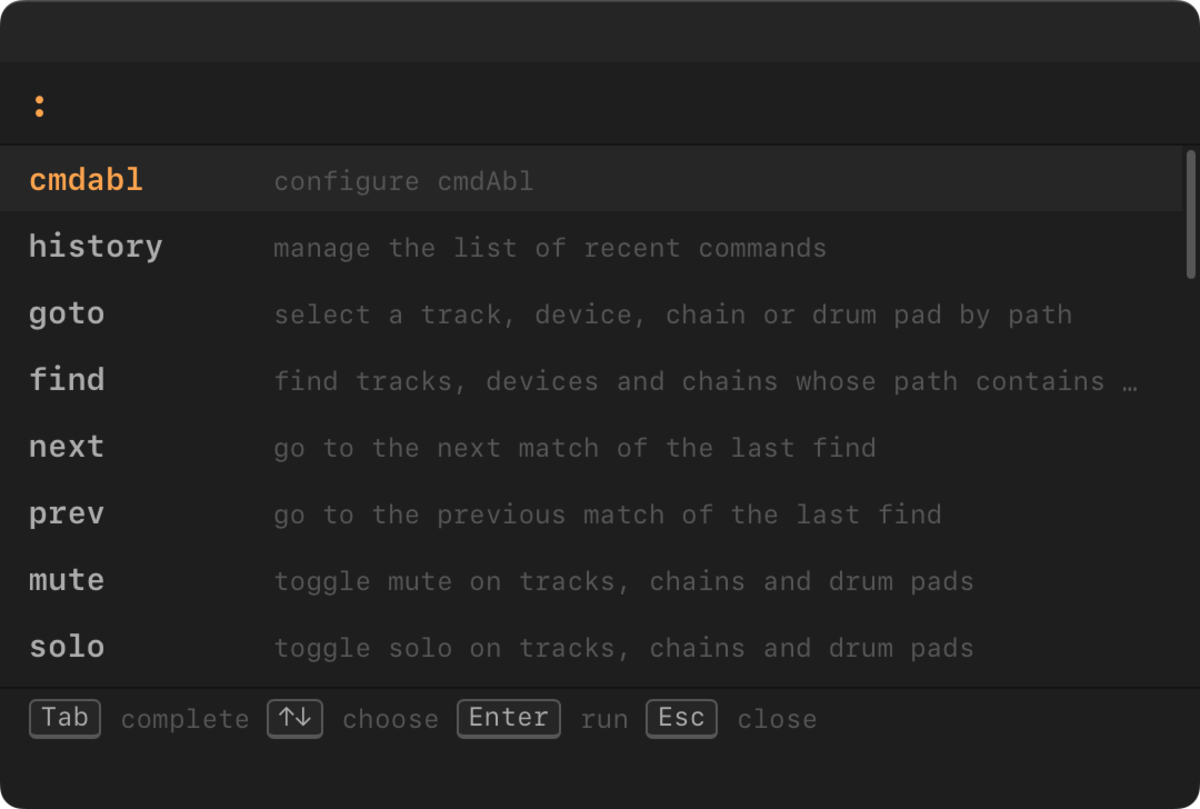
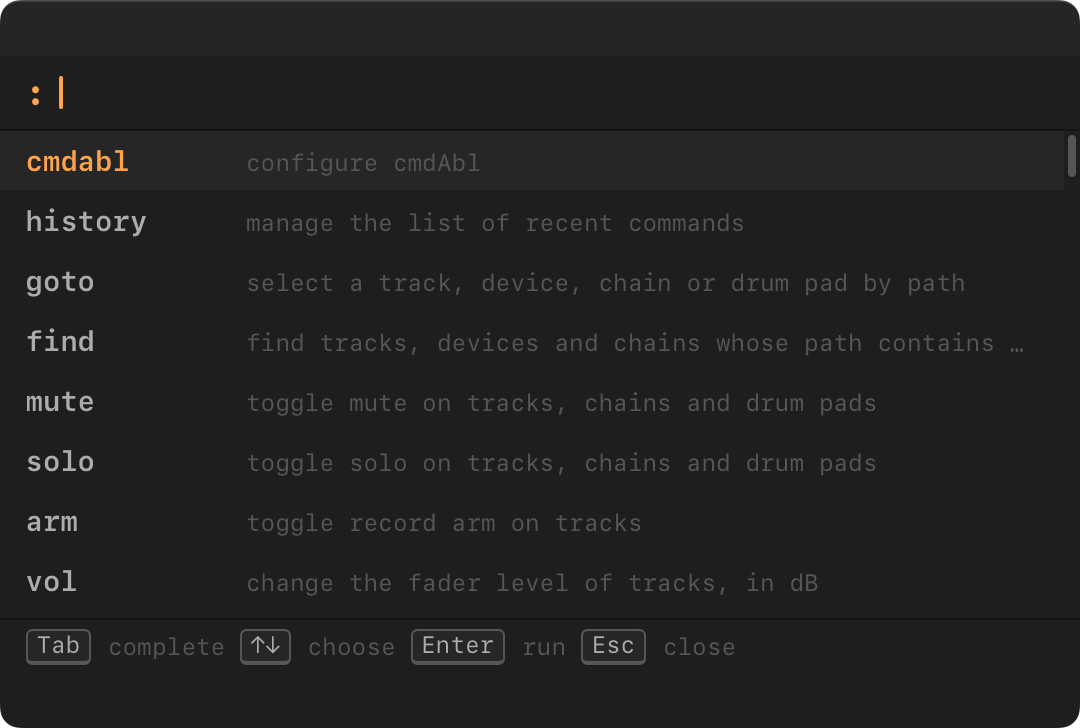
docs: find next/prev replace next/prev; new empty-palette screenshot

diff --git a/docs/using.md b/docs/using.md
@@ -172,7 +172,8 @@ and chain whose path contains `808`: the 808 track and everything below it. `fin
 - `find 808 -L 1` also lists what sits one level below those objects, such as the pads of the Drum Rack.
 - `find -c snare` lists only chains and pads. `-t` lists only tracks and `-d` only devices; the flags add up.
 - `find kick` also finds pads inside nested racks, and `find` lists the devices inside chains.
-- `next` and `prev` step through the last `find` list.
+- `find -t next` finds a track named `next`. A flag first, or another word first (`find kick next`), keeps the word a
+  pattern; `find next` alone is the step command below.
 
 Without a pattern, `find` needs `-L` or one of `-t`, `-d` and `-c`; a bare `find` is an error.
 
@@ -186,6 +187,17 @@ Without a pattern, `find` needs `-L` or one of `-t`, `-d` and `-c`; a bare `find
 ![The find pick list headed find: — 6 matches: every track of the Set with its tags, such as #drums on Kick and #bass on Bass, and the main track last](assets/images/find-top.png)
 
 *`find -L 1` lists the top-level tracks, each with its tags.*
+
+### Step through the matches: `find next` and `find prev`
+
+`find next` selects the next object of the last `find`, and `find prev` the one before. At the end of the list they
+wrap around to the other end. They step only through the last `find`; a pick list from another command does not
+replace it. They need no open palette, so you can put them on a [MIDI button](#midi-mapping).
+
+- `find --first #drums` selects the first match without a pick list, and `find --last #drums` the last. The list is
+  kept, so `find next` and `find prev` go on from there.
+- Example for a controller: button A runs `find --first #drums`, button B runs `find next`. A press of A starts at
+  the first drums track and each press of B moves on.
 
 ## Toggles, and what they do not do
 
@@ -287,7 +299,7 @@ tracks.
 
 `find` understands tags too:
 
-- `find #drums` lists the tracks tagged `drums`. `next` and `prev` step through them.
+- `find #drums` lists the tracks tagged `drums`. `find next` and `find prev` step through them.
 - `find !#drums` lists the regular tracks without the tag.
 - `find drums` lists what the path matches and also the tracks tagged `drums`. Their rows show their tags.
 - `find #drums kick` searches inside the tagged tracks. The kind flags and `-L` apply: `find #drums -c` lists the
@@ -775,7 +787,7 @@ A remembered line keeps:
 
 The history is kept in memory. It is gone when cmdAbl restarts.
 
-![The empty palette: the commands cmdabl, history, goto, find, next, prev, mute and solo, each with its summary, and the key help line at the bottom, with no rows of recent commands](assets/images/palette-empty.png)
+![The empty palette: the commands cmdabl, history, goto, find, mute, solo, arm and vol, each with its summary, and the key help line at the bottom, with no rows of recent commands](assets/images/palette-empty.png)
 
 *With no history, the empty palette lists only the commands.*
 

diff --git a/docs/remote-script.md b/docs/remote-script.md
@@ -8,7 +8,7 @@ does, how to install, update and check it, and what its messages mean.
 
 The Extensions SDK cannot do some things that cmdAbl needs. The Remote Script does them:
 
-- **Select.** The SDK cannot change the selection. `goto`, `find`, `next` and `prev` use the script to select a
+- **Select.** The SDK cannot change the selection. `goto` and `find` (with `find next` and `find prev`) use the script to select a
   track, a device, a rack chain or a Drum Rack pad. This includes racks nested inside a chain.
 - **Chains and pads.** The SDK cannot mute or solo a rack chain or a Drum Rack pad. `mute` and `solo` use the
   script for them.
@@ -31,7 +31,7 @@ Without the Remote Script the palette still opens and most commands run:
 
 - `mute`, `solo`, `arm` and `vol` work on tracks. `arm` cannot warn about tracks that Live refuses to arm.
 - `lom`, `man`, `help`, `cmdabl log` and the history work.
-- These need the script: `goto`, `find`, `next`, `prev`, picking an object row in the palette, `tag`, targets such
+- These need the script: `goto`, `find` (with `find next` and `find prev`), picking an object row in the palette, `tag`, targets such
   as `#fx`, `note`, and `mute` and `solo` on rack chains and Drum Rack pads.
 - Those commands answer that the Remote Script is not running. This is the usual answer for a missing script, an old
   copy that Live has not loaded and one that is not chosen as Control Surface, because cmdAbl cannot look into the User

diff --git a/docs/limits.md b/docs/limits.md
@@ -60,7 +60,7 @@ already know about each one.
 
 ## Remote Script
 
-- **Selection, tags, notes and chain changes need the Remote Script.** Without it, `goto`, `find`, `next`, `prev`, `tag`, `note` and
+- **Selection, tags, notes and chain changes need the Remote Script.** Without it, `goto`, `find` (also `find next` and `find prev`), `tag`, `note` and
   mute or solo of rack chains do not work. See [what works without it](remote-script.md#what-works-without-it).
 - **Two copies of Live.** If a second copy of Live starts, its script cannot open the port and writes a new token
   file. The first copy keeps its own token, and its changes are refused. Workaround: restart the first copy.

diff --git a/docs/getting-started.md b/docs/getting-started.md
@@ -145,7 +145,7 @@ will run, and the buttons show the state that Enter would set.*
 The palette, `help`, `man`, `lom`, `cmdabl log` and the history work without the Remote Script. So do `mute`, `solo`
 and `arm` on tracks. These need it:
 
-- Track selection: `goto`, `find`, `next`, `prev`, and picking an object row in the palette. They report that the
+- Track selection: `goto`, `find` (also `find next` and `find prev`), and picking an object row in the palette. They report that the
   Remote Script is not running and select nothing.
 - Tags: `tag`, and targets such as `#fx`.
 - `mute` and `solo` on rack chains and Drum Rack pads. These also need macOS.

diff --git a/README.md b/README.md
@@ -55,7 +55,7 @@ Open the palette (`:`), type a line and press `Enter`.
 
 | Command | What it does |
 | --- | --- |
-| `find`, `goto`, `next`, `prev` | find tracks, devices and chains; select one; step through the matches |
+| `find`, `goto` | find tracks, devices and chains; select one; step through the matches with `find next` and `find prev` |
 | `mute`, `solo`, `arm` | toggle mute, solo or record arm |
 | `vol` | change the fader level in dB |
 | `tag` | tag tracks; `tag -l` opens the tag board |
